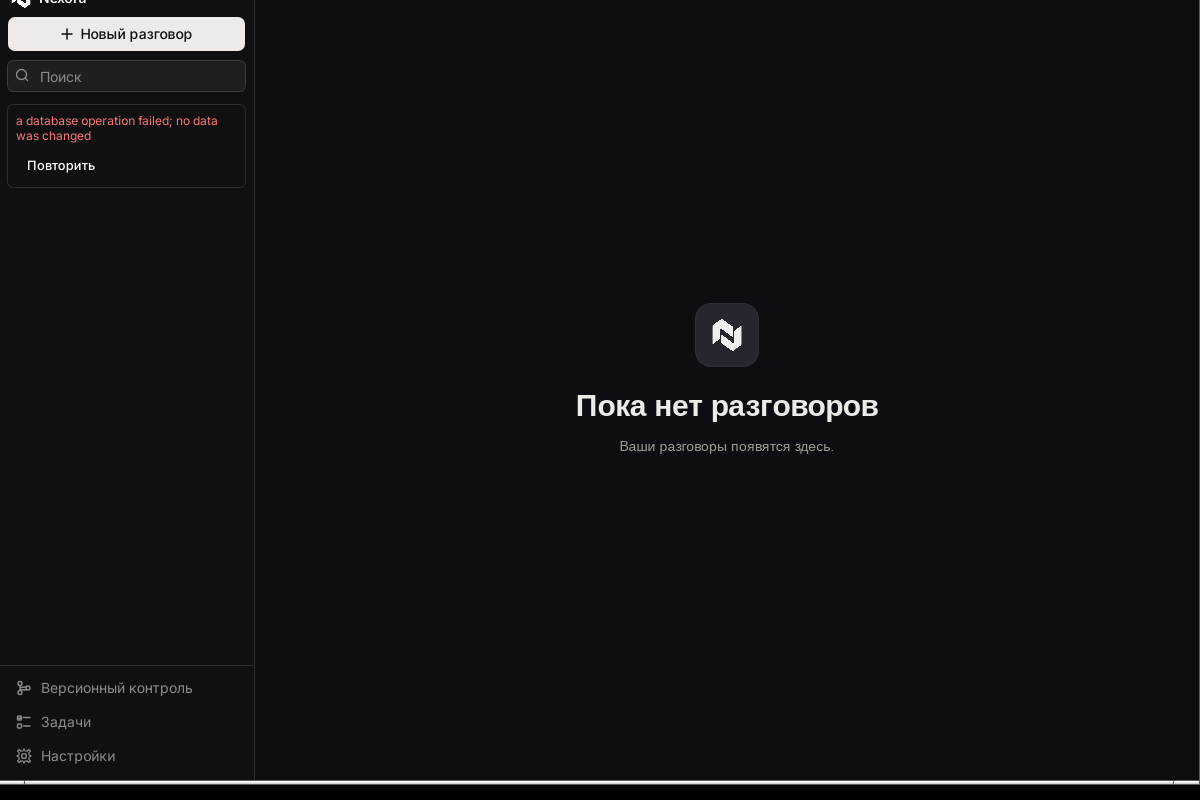
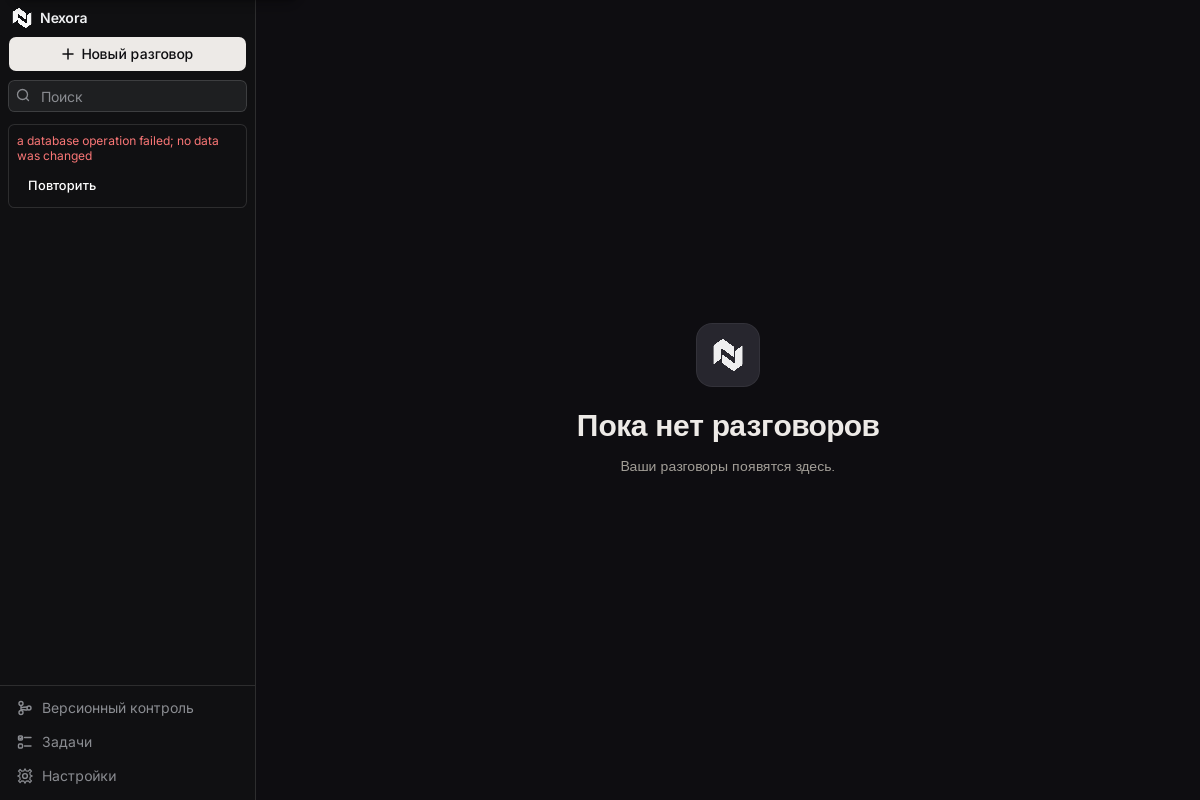
docs(visual-proof): fix 230-p1-real evidence flaws — skeleton count, error-frame crop
- README real-frame table: 7 -> 5 loading skeletons
  (ConversationList.tsx:62 Array.from({ length: 5 }); code correct,
  caption was wrong).
- Re-shoot 10-list-error.png on the real Tauri build with the same
  1200x800 client-area crop as frames 01-09 (was shifted ~21px up:
  brand clipped, black dead band at bottom). Same honest trigger:
  501-char inline rename vs the backend 500-char CHECK constraint.
  DB verified unchanged (integrity_check ok, 13 rows); relaunch
  restores the list.
- The error panel's raw English backend string in the RU rail is
  pre-existing on origin/main:58 and out of visuals-only scope;
  declared as a Known-Gaps row in the PR body, follow-up #253.

Refs #230, #247, #253.

Changed region(s): [[0.0, 0.8438, 1.0, 1.0], [0.0, 0.0, 0.2158, 0.25], [0.4625, 0.375, 0.74, 0.5938]]

diff --git a/docs/visual-proof/230-p1-real/README.md b/docs/visual-proof/230-p1-real/README.md
@@ -36,7 +36,7 @@ documents that it breaks GL on this box. Used:
 
 | File | Evidence class | Content |
 |---|---|---|
-| `01-cold-sidebar-loading-skeletons.png` | real Tauri + real backend | cold boot; sidebar, `Новый разговор`, `Поиск`, 7 loading skeletons, footer |
+| `01-cold-sidebar-loading-skeletons.png` | real Tauri + real backend | cold boot; sidebar, `Новый разговор`, `Поиск`, 5 loading skeletons, footer |
 | `01b-cold-sidebar-loading-skeletons-repeat.png` | real Tauri + real backend | same beat on a second, independent Xvfb — proves the recipe is reproducible |
 | `02-conversation-list-after-locale-fix.png` | real Tauri + real backend | resolved list with relative dates (`23h`, `Вчера`, `Oct 14/12/9`), groups `Активные`/`Архив` — the state that previously crashed |
 | `03-hover-actions.png` | real Tauri + real backend | pointer over row 2: the 4-icon action group revealed (export, rename, archive, delete). A native title tooltip paints beside the cursor as a solid black box under software rendering (WebKit tooltip paint artifact, out of P1 scope — noted, not fixed) |
